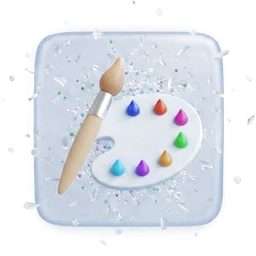
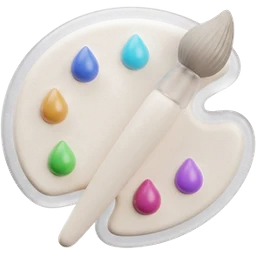
Painéis com vida: ícones 3D nas ações rápidas do lojista (novo pedido, aparência, financeiro) (D329)
Claude-Session: https://claude.ai/code/session_01Lks3ZRu8b1B5aF8Dj5vDVJ

diff --git a/src/components/commerce/commerce-home.tsx b/src/components/commerce/commerce-home.tsx
@@ -62,11 +62,12 @@ export function CommerceHome({ firstName, greeting, store, o, readiness, attenti
   const reqTotal = readiness ? readiness.items.length : 0;
   const stepsDone = o.onboarding.steps.filter((s) => s.done).length;
   const noPrev = o.salesDelta === undefined && o.countDelta === undefined;
-  const QUICK: { href: string; label: string; icon: LucideIcon }[] = [
+  // Ícones 3D do dono (D329) nas ações rápidas; sem imagem, fica o ícone de traço.
+  const QUICK: { href: string; label: string; icon: LucideIcon; img?: string }[] = [
     { href: "/merchant/catalogo/new", label: "Novo produto", icon: Package },
-    { href: "/merchant/orders/new", label: "Novo pedido", icon: Plus },
-    { href: "/theme-editor", label: "Editar aparência", icon: Palette },
-    { href: "/merchant/finance", label: "Financeiro", icon: Wallet },
+    { href: "/merchant/orders/new", label: "Novo pedido", icon: Plus, img: "/paineis/v1/pv-icone-novo-pedido.webp" },
+    { href: "/theme-editor", label: "Editar aparência", icon: Palette, img: "/paineis/v1/pv-icone-aparencia.webp" },
+    { href: "/merchant/finance", label: "Financeiro", icon: Wallet, img: "/paineis/v1/pv-icone-financeiro.webp" },
   ];
 
   const status = <section className="ds-card ds-enter p-5 sm:p-6" style={stagger(3)} aria-labelledby="cm-status">
@@ -183,7 +184,7 @@ export function CommerceHome({ firstName, greeting, store, o, readiness, attenti
       <div className="space-y-5 sm:space-y-6">
         <section className="ds-card ds-enter p-5 sm:p-6" style={stagger(7)} aria-labelledby="cm-quick">
           <h2 id="cm-quick" className="text-base font-semibold tracking-[-.01em]">Ações rápidas</h2>
-          <ul className="mt-3 grid grid-cols-2 gap-2.5">{QUICK.map((q) => { const Icon = q.icon; return <li key={q.href}><Link href={q.href} className="ds-lift flex min-h-[64px] flex-col items-start justify-center gap-1.5 rounded-xl border border-border bg-surface px-3.5 text-sm font-medium"><Icon className="size-[18px] text-[var(--ds-link)]" aria-hidden />{q.label}</Link></li>; })}</ul>
+          <ul className="mt-3 grid grid-cols-2 gap-2.5">{QUICK.map((q) => { const Icon = q.icon; return <li key={q.href}><Link href={q.href} className="ds-lift vida-acao flex min-h-[64px] items-center gap-3 rounded-xl border border-border bg-surface px-3 py-2 text-sm font-medium">{q.img ? <Image src={q.img} alt="" width={40} height={40} className="vida-acao__img size-10 shrink-0 object-contain" /> : <span className="flex size-10 shrink-0 items-center justify-center"><Icon className="size-[20px] text-[var(--ds-link)]" aria-hidden /></span>}{q.label}</Link></li>; })}</ul>
         </section>
         <section className="ds-card ds-warm ds-enter p-5 sm:p-6" style={stagger(8)} aria-labelledby="cm-themes">
           <div className="flex items-end justify-between"><h2 id="cm-themes" className="ds-warm-title text-base font-semibold tracking-[-.01em]">Aparência da loja</h2><Link href="/merchant/templates" className="ds-warm-title inline-flex min-h-11 items-center gap-1.5 text-sm font-semibold">Ver temas <ArrowRight className="size-4" aria-hidden /></Link></div>

diff --git a/src/design-system/vida.css b/src/design-system/vida.css
@@ -18,6 +18,8 @@ a.vida-num:focus-visible { outline: 3px solid var(--cor); outline-offset: 2px; }
 .vida-num__icone { display: grid; place-items: center; width: 2rem; height: 2rem; border-radius: .7rem; color: var(--cor); background: color-mix(in srgb, var(--cor) 16%, transparent); flex-shrink: 0; }
 .vida-num__icone3d { width: 2.75rem; height: 2.75rem; flex-shrink: 0; object-fit: contain; filter: drop-shadow(0 6px 10px color-mix(in srgb, var(--cor) 30%, transparent)); transition: transform var(--ds-dur-micro) var(--ds-ease-out); }
 a.vida-num:hover .vida-num__icone3d { transform: translateY(-2px) rotate(-5deg) scale(1.06); }
+.vida-acao__img { transition: transform var(--ds-dur-micro) var(--ds-ease-out); }
+.vida-acao:hover .vida-acao__img { transform: translateY(-2px) rotate(-5deg) scale(1.06); }
 .vida-num__valor { font-family: var(--nl-font-display, inherit); font-variant-numeric: tabular-nums; font-weight: 700; letter-spacing: -.035em; line-height: 1.05; font-size: clamp(1.35rem, 2.3vw, 2.1rem); white-space: nowrap; }
 .vida-num__rotulo { font-size: .78rem; font-weight: 600; color: var(--ds-muted, inherit); }
 .vida-num__mini { color: var(--cor); }
@@ -51,5 +53,5 @@ a.vida-num:hover .vida-num__icone3d { transform: translateY(-2px) rotate(-5deg) 
   .vida-linha { animation: none; stroke-dashoffset: 0; }
   .vida-area, .vida-fatia { animation: none; opacity: 1; }
   .vida-aovivo::after { animation: none; }
-  a.vida-num:hover, a.vida-num:hover .vida-num__icone3d { transform: none; }
+  a.vida-num:hover, a.vida-num:hover .vida-num__icone3d, .vida-acao:hover .vida-acao__img { transform: none; }
 }

diff --git a/public/paineis/v1/MANIFESTO.md b/public/paineis/v1/MANIFESTO.md
@@ -23,5 +23,5 @@ Prompt de origem: `docs/prompts/imagens-paineis-com-vida-gpt.md` (D328). Geradas
 |---|---|---|
 | pv-icone-dinheiro, -pedidos, -clientes, -visitas, -crescimento | Cartões de número (`NumeroVivo`), pela família de cor | **No painel** (256 px, fundo recortado) |
 | pv-icone-festa | Família festa (conquistas, Black) | Guardada |
-| pv-icone-novo-produto, -aparencia, -financeiro | Ações rápidas | **Refazer** sem confete e sem cacos ao redor (no escuro parece sujeira) |
-| pv-icone-novo-pedido | Ações rápidas | Falta gerar |
+| pv-icone-novo-pedido, -aparencia, -financeiro | Ações rápidas do lojista | **No painel** |
+| pv-icone-novo-produto | Ações rápidas | **Refazer** com a caixa em azul (a branca some sobre o cartão branco) |
